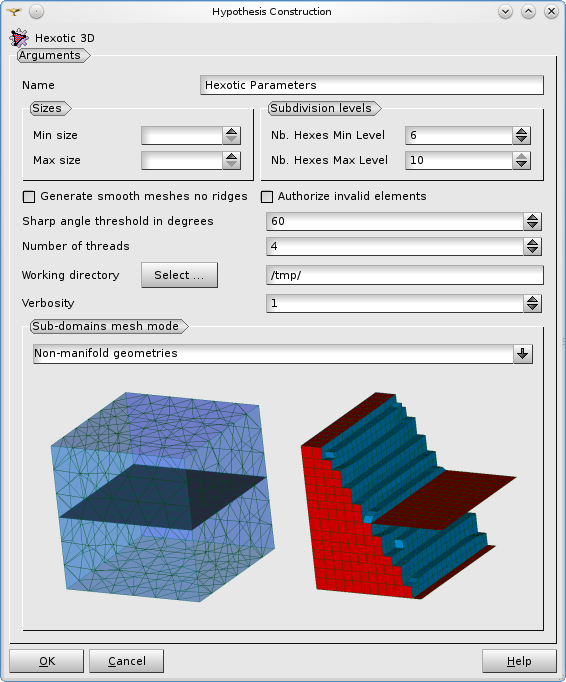
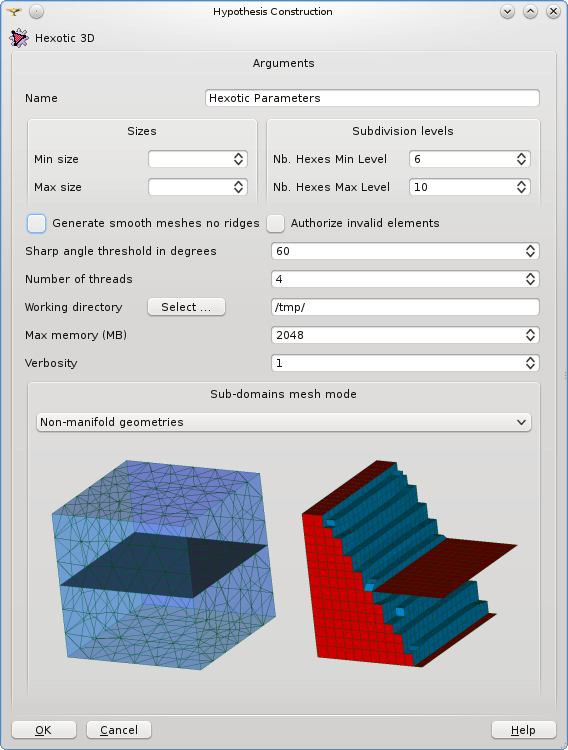
Add input parameter: Max memory

diff --git a/src/GUI/HexoticPLUGIN_msg_fr.ts b/src/GUI/HexoticPLUGIN_msg_fr.ts
@@ -44,10 +44,6 @@
         <translation>Autoriser des éléments invalides</translation>
     </message>
     <message>
-        <source>Hexotic_QUADRANGLES</source>
-        <translation>Quadrangles Salomé</translation>
-    </message>
-    <message>
         <source>Hexotic_SHARP_ANGLE_THRESHOLD</source>
         <translation>Seuil d&apos;un angle aigu en degrés</translation>
     </message>
@@ -66,6 +62,10 @@
     <message>
         <source>Hexotic_VERBOSITY</source>
         <translation>Verbosité</translation>
+    </message>
+    <message>
+        <source>Hexotic_MAX_MEMORY</source>
+        <translation>Mémoire maximum (MB)</translation>
     </message>
     <message>
         <source>Hexotic_SUBDOMAIN_MESH_MODE</source>

diff --git a/src/GUI/HexoticPLUGIN_msg_en.ts b/src/GUI/HexoticPLUGIN_msg_en.ts
@@ -64,6 +64,10 @@
         <translation>Verbosity</translation>
     </message>
     <message>
+        <source>Hexotic_MAX_MEMORY</source>
+        <translation>Max memory (MB)</translation>
+    </message>
+    <message>
         <source>Hexotic_SUBDOMAIN_MESH_MODE</source>
         <translation>Sub-domains mesh mode</translation>
     </message>

diff --git a/src/GUI/HexoticPluginGUI_HypothesisCreator.h b/src/GUI/HexoticPluginGUI_HypothesisCreator.h
@@ -46,6 +46,7 @@ typedef struct
   int      myHexoticNbProc;
   QString  myHexoticWorkingDir;
   int      myHexoticVerbosity;
+  int      myHexoticMaxMemory;
   int      myHexoticSdMode;
 } HexoticHypothesisData;
 
